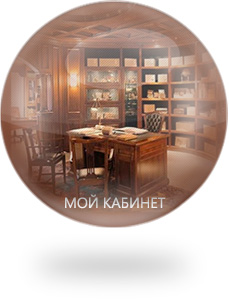
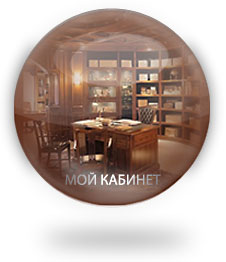
заменены картинки для карусели

diff --git a/insurance/templates/index.html b/insurance/templates/index.html
@@ -9,11 +9,12 @@
     <div class="next arrow"><img src="{{ STATIC_URL }}images/px.gif" alt="" /></div>
 
     <div id="stage">
-      <a href="#tabs_crug_1"><img class="default" src="{{ STATIC_URL }}images/scroll/scroll_img_1.jpg" width="229" height="302"/></a>
-      <a href="#tabs_crug_2"><img src="{{ STATIC_URL }}images/scroll/scroll_img_2.jpg" width="229" height="302" /></a>
-      <a href="#tabs_crug_3"><img src="{{ STATIC_URL }}images/scroll/scroll_img_3.jpg"  width="229" height="302" /></a>
+      <a href="#tabs_crug_1"><img class="default" src="{{ STATIC_URL }}images/scroll/scroll_img_1.png" width="226" height="262"/></a>
+      <a href="#tabs_crug_2"><img src="{{ STATIC_URL }}images/scroll/scroll_img_2.png" width="226" height="262" /></a>
+      <a href="#tabs_crug_3"><img src="{{ STATIC_URL }}images/scroll/scroll_img_3.png"  width="226" height="262" /></a>
     </div>
   </div>
+
   <script type="text/javascript" src="{{ STATIC_URL }}js/script.js"></script>
   <div class="tabs" id="tabs_crug_1">
     <img src="{{ STATIC_URL }}images/tabs.jpg" alt="" />
@@ -25,6 +26,8 @@
     <img src="{{ STATIC_URL }}images/tabs_3.jpg" alt="" />
   </div>
 </div>
+
+
 <script>
   $(function () {
   var tabContainers = $('div.content_home > .tabs'); // получаем массив контейнеров
